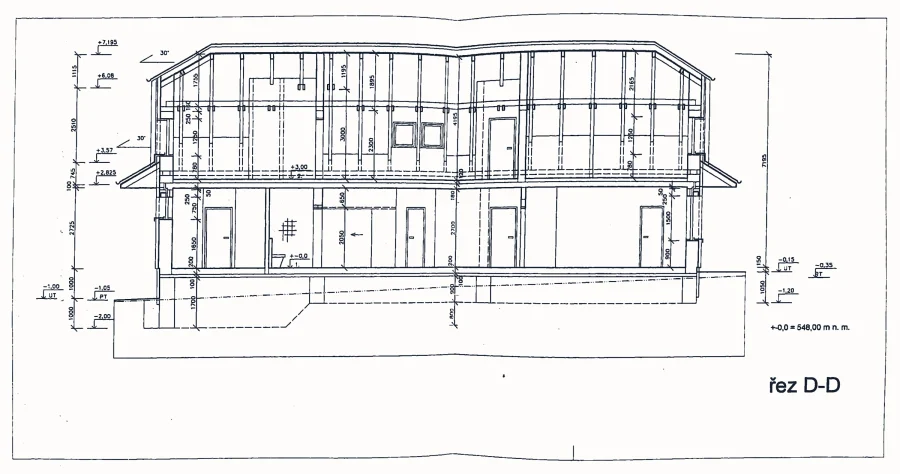
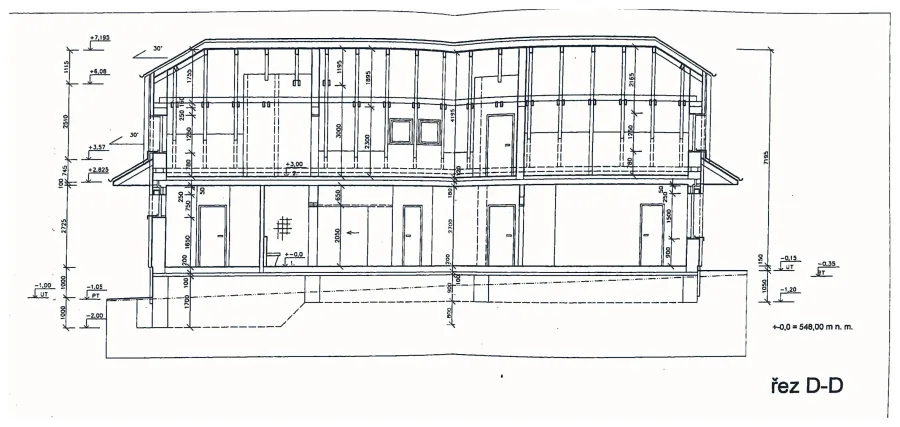
Vykresy proreznuty na sest a orezany na kresbu
Ze strany zmizely zaklady, strecha, krov a rezy krovem -- konstrukcni
detaily pro stavbu, ne pro kupujiciho. S nimi i druhy pudorys podkrovi
(list PUDORYS 2.NP, V1-06-03): uvadi jine plochy mistnosti nez list
"podkrovi", ze ktereho pocita uzitnou plochu nemovitost.ts, a dva
rozporne pudorysy vedle sebe by matly. Zustava sest -- dva pudorysy
a ctyri rezy.

Novy `npm run vykresy` orezava skeny z podklady/vykresy/. U pudorysu
prizemi jde dolu razitkovy roh a legenda mistnosti, protoze rozpis
ploch ma web ve vlastni sekci; jinde se strhavaji bile okraje. Kresba
si tim na dlazdici stejne sirky sedne vyrazne vetsi, aniz by ztratila
jediny pixel rozliseni. Pomery stran si skript zapisuje do nakresy.ts
sam, opisovat je rucne by se rozeslo s obrazky.

public/nakresy/ spadlo z 3,4 MB na 1,2 MB. Odesla i nezobrazovana
roubenka, na kterou uz nic neodkazovalo.

diff --git a/src/data/nakresy.ts b/src/data/nakresy.ts
@@ -1,9 +1,17 @@
 // Výkresy z projektové dokumentace domu, Architektonický ateliér A.J.A,
-// Ing. arch. Aleš Jílek, 07/2004. Naskenované listy jsou v public/nakresy/,
-// zmenšené náhledy pro mřížku v public/nakresy/nahledy/ (stejné názvy).
+// Ing. arch. Aleš Jílek, 07/2004.
 //
-// Roubenka (12-roubenka-rezy.webp) je ve stejné složce, ale záměrně se
-// nikde nezobrazuje — není ověřené, ke které stavbě patří.
+// Zdrojem jsou nedotčené skeny v podklady/vykresy/. Co je v public/nakresy/
+// a public/nakresy/nahledy/, generuje `npm run vykresy` — ten listy ořeže
+// a poměry stran níž si přepisuje sám, takže se ručně needitují.
+//
+// Ukazuje se jen to, co zajímá kupujícího: dva půdorysy a čtyři řezy.
+// Základy, střecha, krov a řezy krovem jsou konstrukční detaily pro stavbu,
+// na inzerát nepatří a v dokumentaci si je vyžádá, kdo je potřebuje.
+//
+// Nezobrazuje se ani druhý půdorys podkroví (list „PŮDORYS 2.NP“, V1-06-03).
+// Uvádí jiné plochy místností než list „podkroví“, ze kterého počítá užitnou
+// plochu nemovitost.ts — dva rozporné půdorysy vedle sebe by kupujícího mátly.
 
 export interface Nakres {
 	soubor: string;
@@ -17,47 +25,22 @@ export const nakresy: Nakres[] = [
 	{
 		soubor: '01-pudorys-prizemi.webp',
 		nazev: 'Půdorys přízemí',
-		popis: 'S legendou místností a jejich plochami',
-		pomer: '2400 / 1683',
+		popis: 'Obytná hala s krbem, kuchyň, ložnice a dva pokoje',
+		pomer: '1415 / 1282',
 	},
 	{
 		soubor: '03-pudorys-podkrovi.webp',
 		nazev: 'Půdorys podkroví',
 		popis: 'Galerie, tři pokoje a koupelna',
-		pomer: '2010 / 1819',
-	},
-	{
-		soubor: '02-pudorys-podkrovi-studie.webp',
-		nazev: 'Půdorys podkroví — studie',
-		popis: 'Starší varianta z architektonické studie',
-		pomer: '2400 / 1689',
+		pomer: '1777 / 1567',
 	},
 	{
 		soubor: '07-rez-a-a.webp',
 		nazev: 'Řez A-A',
-		popis: 'S legendou materiálů a skladbou podlahy',
-		pomer: '2400 / 1467',
+		popis: 'Podélný řez s legendou materiálů',
+		pomer: '2405 / 1447',
 	},
-	{ soubor: '08-rez-b-b.webp', nazev: 'Řez B-B', popis: 'Přes schodiště', pomer: '2400 / 1195' },
-	{ soubor: '09-rez-c-c.webp', nazev: 'Řez C-C', popis: 'Příčný řez', pomer: '2400 / 1703' },
-	{ soubor: '10-rez-d-d.webp', nazev: 'Řez D-D', popis: 'Podélný řez', pomer: '2400 / 1265' },
-	{
-		soubor: '05-strecha.webp',
-		nazev: 'Střecha',
-		popis: 'Sklony, žlaby a půdorysné rozměry',
-		pomer: '2400 / 1678',
-	},
-	{ soubor: '06-krov.webp', nazev: 'Krov', popis: 'Skladba krovu', pomer: '2400 / 1673' },
-	{
-		soubor: '11-rezy-krovem.webp',
-		nazev: 'Řezy krovem',
-		popis: 'Řezy B-B a E-E',
-		pomer: '2334 / 1579',
-	},
-	{
-		soubor: '04-zaklady.webp',
-		nazev: 'Základy',
-		popis: 'Základové pasy a výškové kóty',
-		pomer: '2400 / 1690',
-	},
+	{ soubor: '08-rez-b-b.webp', nazev: 'Řez B-B', popis: 'Přes schodiště', pomer: '2395 / 1173' },
+	{ soubor: '09-rez-c-c.webp', nazev: 'Řez C-C', popis: 'Příčný řez', pomer: '2366 / 1479' },
+	{ soubor: '10-rez-d-d.webp', nazev: 'Řez D-D', popis: 'Podélný řez', pomer: '2366 / 1123' },
 ];

diff --git a/src/data/nemovitost.ts b/src/data/nemovitost.ts
@@ -14,6 +14,35 @@ import { proCast } from './parcely';
  * skoro stejná (297 a 299 m²), a přitom měří něco jiného — proto jsou
  * v přehledu vedle sebe a s rozpisem, ne každé jinde.
  */
+const cislo = new Intl.NumberFormat('cs-CZ');
+
+/*
+ * Průkaz energetické náročnosti budovy, ev. č. 879101.0, vyhotovil
+ * Ing. Tomáš Brückner (oprávnění č. 896) 28. 8. 2026 s platností deset let.
+ * Čísla jsou z protokolu průkazu, ne odhad — třídu A přiznává i sám protokol
+ * („objekt spadá do energetické třídy A“), a proto v něm nejsou navržena
+ * žádná úsporná opatření.
+ */
+export const energie = {
+	trida: 'A',
+	tridaSlovy: 'mimořádně úsporná',
+	/** neobnovitelná primární energie, kWh/m² za rok — podle ní se třída určuje */
+	primarni: 19,
+	/** celková dodaná energie, kWh/m² za rok */
+	dodana: 101,
+	prumernyProstup: 0.27,
+	prukaz: {
+		evidencni: '879101.0',
+		vyhotoven: '28. 8. 2026',
+		platnyDo: '28. 8. 2036',
+		specialista: 'Ing. Tomáš Brückner',
+		/** doplní se do public/; odkaz ke stažení se ukáže, až soubor existuje */
+		soubor: '/dokumenty/energeticky-prukaz.pdf',
+	},
+	/** skutečné náklady majitele, ne výpočet z průkazu */
+	mesicne: 5500,
+};
+
 const staveb = proCast('dum').filter((p) => p.stavebni);
 const vymeraStavby = (co: string) => staveb.find((p) => p.stavba?.startsWith(co))?.vymera ?? 0;
 const zastavenoDum = vymeraStavby('dům');
@@ -69,7 +98,10 @@ export const nemovitost = {
 	// Cena za celou nabídku: dům, garáž, vymezený pozemek kolem nich a háječek.
 	// Co přesně je v nabídce, rozepisuje parcely.ts.
 	cena: 26_900_000,
-	cenaPoznamka: 'za dům, garáž, pozemek ≈ 3 200 m² a háječek 2 642 m²',
+	// Stavební pozemek v háječku je parcela St. 173/4 — zastavěná plocha, na které
+	// už žádná stavba nestojí. Viz parcely.ts.
+	cenaPoznamka:
+		'za dům, garáž, pozemek ≈ 3 200 m² a háječek 2 642 m² se stavebním pozemkem 180 m²',
 
 	perex:
 		'Na horním konci Trojanovic, kde zástavba přechází v louky a les, stojí rodinný dům ' +
@@ -110,6 +142,8 @@ export const nemovitost = {
 		{ nazev: 'Fasáda', hodnota: 'Omítka, dřevem obložený štít' },
 		{ nazev: 'Vytápění', hodnota: 'Tepelné čerpadlo země-voda' },
 		{ nazev: 'Otopná soustava', hodnota: 'Podlahové vytápění' },
+		{ nazev: 'Energetická třída', hodnota: `${energie.trida} — ${energie.tridaSlovy}` },
+		{ nazev: 'Náklady na energie', hodnota: `${cislo.format(energie.mesicne)} Kč měsíčně` },
 		{ nazev: 'Garáž', hodnota: 'Pro dva vozy, s dílnou a podkrovím' },
 		{ nazev: 'Parkování', hodnota: '3 místa před garáží' },
 	],
